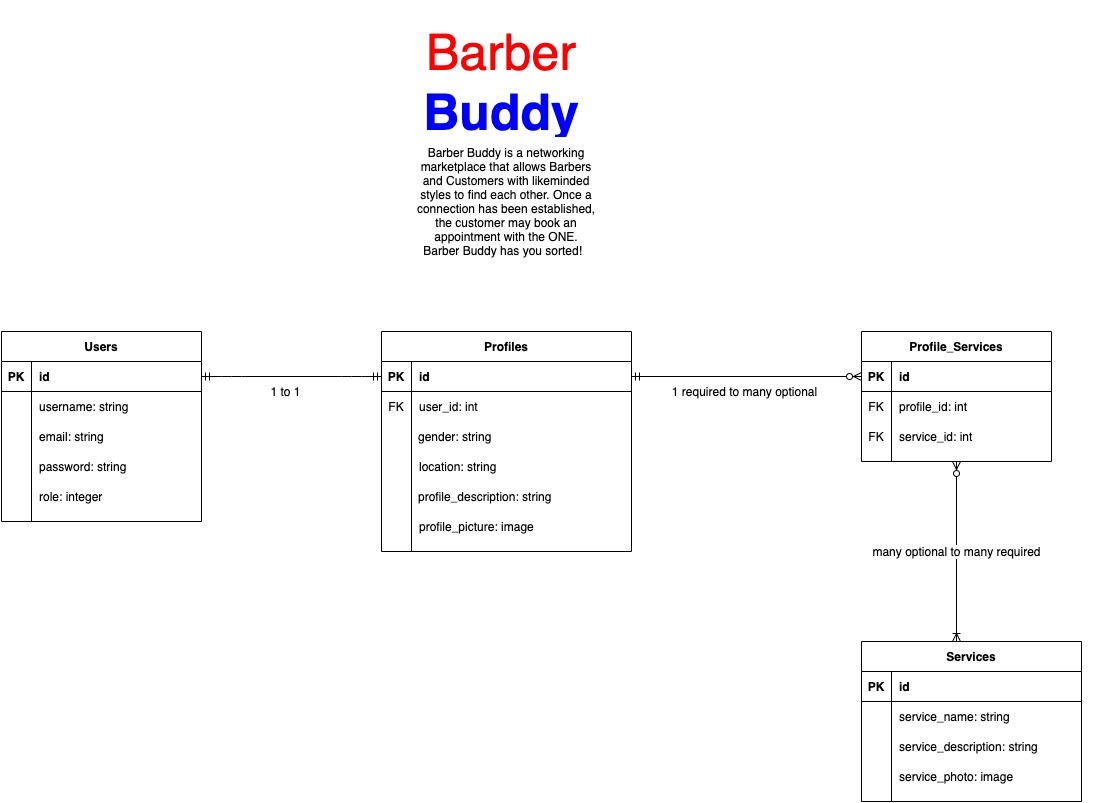
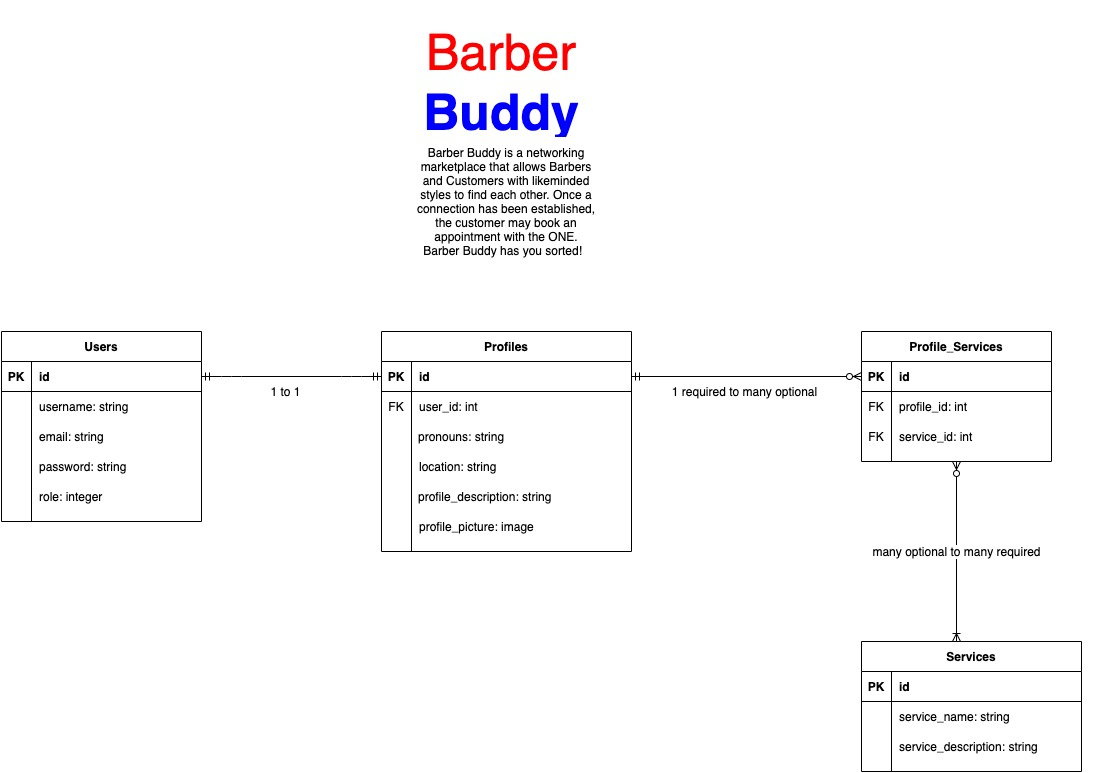
updated project management screenshots, updated README doc

diff --git a/README.md b/README.md
@@ -15,7 +15,7 @@
 - [ERD](#erd)
 - [Abstractions](#abstractions)
 - [Third Party Services](#third-party-services)
-- [Active Record Associations](#active-record-associations)
+- [Project Models and Database Relations](#project-models-and-database-relations)
 - [Database Relations](#database-relations)
 - [Database Schema Design](#database-schema-design)
 - [Project Management](#project-management)
@@ -140,13 +140,31 @@ Heroku is a cloud platform as a service that supports many different programming
 
 Amazon Simple Storage Service (Amazon s3) is designed to simplify internet computing. It is used to collect and store data anywhere and anytime on the internet. Developers are allowed access to identical data storage infrastructure that is used by Amazon that is highly scalable, fast and reliable. Amazon s3 have buckets that are containers for objects stored on its service, and is used to identify accounts responsible for data and storage transfer charges. These objects have a key and value pair and a version ID and are also used for access control. A region is specified for for where the bucket created by Amazon s3 will be stored, and is chosen based on optimal latency, minimal costs or regulatory address requirements.
 
-## Active Record Associations
+## Project Models and Database Relations
+In my application, there are four models that are used: Users, Profiles, Profile Services, and Services.
 
+For every User of the app, they are required to register with an email address, username, password and role (barber or buddy).
 
-## Database Relations
+A Profile model belongs to/has one User, and a User has one Profile.
+
+The Profile model references the User model and collects the user's pronouns, location, profile description and profile image.
+
+The Service model is joint with the Users model through a joint table called Profile Services, where a user Profile has many optional Profile Services, and Profile Services belongs to a user Profile.
+
+The Services model stores the service name and description that populates the app.
 
 
 ## Database Schema Design
 
 
+
 ## Project Management
+
+Trello has been used as the the primary project management system, where application tasks are split between phases: to do, pending, blocked and done. Prioritised tasks are to be completed first and the rest are worked through as necessary. Each task has multiple checklists and a timeframe for completion. As each task checklist is completed, the complete task is then shifted to "done".
+
+See below the project management process:
+
+<img src="docs/screenshots/Screen Shot 2021-08-19 at 3.35.56 pm.png">
+<img src="docs/screenshots/Screen Shot 2021-08-19 at 3.36.10 pm.png">
+<img src="docs/screenshots/Screen Shot 2021-08-19 at 3.36.46 pm.png">
+<img src="docs/screenshots/Screen Shot 2021-08-19 at 4.20.08 pm.png">
